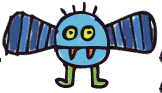
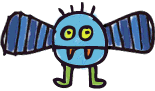
fixed images and squished final bug

diff --git a/target/site/checkstyle.html b/target/site/checkstyle.html
@@ -1,5 +1,5 @@
 <!DOCTYPE html PUBLIC "-//W3C//DTD XHTML 1.0 Transitional//EN" "http://www.w3.org/TR/xhtml1/DTD/xhtml1-transitional.dtd">
-<!-- Generated by Apache Maven Doxia Site Renderer 1.4 at 2025-12-03 -->
+<!-- Generated by Apache Maven Doxia Site Renderer 1.4 at 2025-12-04 -->
 <html xmlns="http://www.w3.org/1999/xhtml" xml:lang="en" lang="en">
   <head>
     <meta http-equiv="Content-Type" content="text/html; charset=UTF-8" />
@@ -10,7 +10,7 @@
       @import url("./css/site.css");
     </style>
     <link rel="stylesheet" href="./css/print.css" type="text/css" media="print" />
-    <meta name="Date-Revision-yyyymmdd" content="20251203" />
+    <meta name="Date-Revision-yyyymmdd" content="20251204" />
     <meta http-equiv="Content-Language" content="en" />
         
         </head>
@@ -24,7 +24,7 @@
             
                     
                 <div class="xleft">
-        <span id="publishDate">Last Published: 2025-12-03</span>
+        <span id="publishDate">Last Published: 2025-12-04</span>
                   &nbsp;| <span id="projectVersion">Version: 1.0</span>
                       </div>
             <div class="xright">        
@@ -47,7 +47,7 @@
     </div>
     <div id="bodyColumn">
       <div id="contentBox">
-        <div class="section"><h2>Checkstyle Results<a name="Checkstyle_Results"></a></h2><p>The following document contains the results of <a class="externalLink" href="http://checkstyle.sourceforge.net/">Checkstyle</a> 9.2.1 with https://www.seas.upenn.edu/~cis120/current/files/cis120-checkstyle-config.xml ruleset.&#160;<a href="checkstyle.rss"><img alt="rss feed" src="images/rss.png" /></a></p></div><div class="section"><h2>Summary<a name="Summary"></a></h2><table border="0" class="bodyTable"><tr class="a"><th>Files</th><th><img src="images/icon_info_sml.gif" alt="" />&#160;Info</th><th><img src="images/icon_warning_sml.gif" alt="" />&#160;Warnings</th><th><img src="images/icon_error_sml.gif" alt="" />&#160;Errors</th></tr><tr class="b"><td>3</td><td>0</td><td>1</td><td>0</td></tr></table></div><div class="section"><h2>Files<a name="Files"></a></h2><table border="0" class="bodyTable"><tr class="a"><th>File</th><th><img src="images/icon_info_sml.gif" alt="" />&#160;I</th><th><img src="images/icon_warning_sml.gif" alt="" />&#160;W</th><th><img src="images/icon_error_sml.gif" alt="" />&#160;E</th></tr><tr class="b"><td><a href="#org.cis1200.doodlejump.GameRegion.java">org/cis1200/doodlejump/GameRegion.java</a></td><td>0</td><td>1</td><td>0</td></tr></table></div><div class="section"><h2>Rules<a name="Rules"></a></h2><table border="0" class="bodyTable"><tr class="a"><th>Category</th><th>Rule</th><th>Violations</th><th>Severity</th></tr><tr class="b"><td>whitespace</td><td><a class="externalLink" href="http://checkstyle.sourceforge.net/config_whitespace.html#WhitespaceAround">WhitespaceAround</a><ul><li>allowEmptyConstructors: <tt>&quot;true&quot;</tt></li><li>allowEmptyMethods: <tt>&quot;true&quot;</tt></li><li>allowEmptyLoops: <tt>&quot;true&quot;</tt></li><li>allowEmptyTypes: <tt>&quot;true&quot;</tt></li></ul></td><td>1</td><td><img src="images/icon_warning_sml.gif" alt="" />&#160;Warning</td></tr></table></div><div class="section"><h2>Details<a name="Details"></a></h2><div class="section"><h3 id="org.cis1200.doodlejump.GameRegion.java">org/cis1200/doodlejump/GameRegion.java</h3><table border="0" class="bodyTable"><tr class="a"><th>Severity</th><th>Category</th><th>Rule</th><th>Message</th><th>Line</th></tr><tr class="b"><td><img src="images/icon_warning_sml.gif" alt="" />&#160;Warning</td><td>whitespace</td><td>WhitespaceAround</td><td>WhitespaceAround: '?' is not preceded with whitespace.</td><td>194</td></tr></table></div></div>
+        <div class="section"><h2>Checkstyle Results<a name="Checkstyle_Results"></a></h2><p>The following document contains the results of <a class="externalLink" href="http://checkstyle.sourceforge.net/">Checkstyle</a> 9.2.1 with https://www.seas.upenn.edu/~cis120/current/files/cis120-checkstyle-config.xml ruleset.&#160;<a href="checkstyle.rss"><img alt="rss feed" src="images/rss.png" /></a></p></div><div class="section"><h2>Summary<a name="Summary"></a></h2><table border="0" class="bodyTable"><tr class="a"><th>Files</th><th><img src="images/icon_info_sml.gif" alt="" />&#160;Info</th><th><img src="images/icon_warning_sml.gif" alt="" />&#160;Warnings</th><th><img src="images/icon_error_sml.gif" alt="" />&#160;Errors</th></tr><tr class="b"><td>1</td><td>0</td><td>0</td><td>0</td></tr></table></div><div class="section"><h2>Files<a name="Files"></a></h2><table border="0" class="bodyTable"><tr class="a"><th>File</th><th><img src="images/icon_info_sml.gif" alt="" />&#160;I</th><th><img src="images/icon_warning_sml.gif" alt="" />&#160;W</th><th><img src="images/icon_error_sml.gif" alt="" />&#160;E</th></tr></table></div><div class="section"><h2>Rules<a name="Rules"></a></h2><table border="0" class="bodyTable"><tr class="b"><th>Category</th><th>Rule</th><th>Violations</th><th>Severity</th></tr></table></div><div class="section"><h2>Details<a name="Details"></a></h2></div>
       </div>
     </div>
     <div class="clear">

diff --git a/src/main/java/org/cis1200/doodlejump/RunDoodleJump.java b/src/main/java/org/cis1200/doodlejump/RunDoodleJump.java
@@ -7,17 +7,17 @@ public class RunDoodleJump implements Runnable {
 
     public static final String TEXT = """
             This Game is called Doodle Jump!
-            
+
             The main objective of the game is to get as high as you can while avoiding the monsters
-            and not falling. Don't worry about jumping though, because your character is always jumping!
+            and not falling. Don't worry about jumping though, because your character auto jumps!
             Use A and D to move left or right, respectively, and use SPACE to shoot a shuriken up
             that can kill monsters! The blue monster dies with one shuriken, and the others take 2.
             Watch out for the flying saucers, as they will chase you! The bouncy platforms will
-            help you, but some platforms will move or even disappear. Unlike Doodle Jump, you are not
+            help you, but some platforms will move or disappear. Unlike Doodle Jump, you aren't
             able to jump on the monsters to kill them; they will kill you. This game does have a
             wrap-around field! If you move beyond the right side of the game area, you'll come
             out the left (and vice versa)!
-            
+
             Good luck!
             """;
 

diff --git a/src/test/java/org/cis1200/doodlejump/DoodleTest.java b/src/test/java/org/cis1200/doodlejump/DoodleTest.java
@@ -4,14 +4,12 @@ import org.junit.jupiter.api.*;
 
 import javax.swing.*;
 import java.io.BufferedReader;
-import java.io.FileNotFoundException;
 import java.io.FileReader;
 import java.io.IOException;
 import java.util.Arrays;
 import java.util.LinkedList;
 
 import static org.junit.jupiter.api.Assertions.*;
-
 
 public class DoodleTest {
 
@@ -80,7 +78,8 @@ public class DoodleTest {
             bw.close();
         } catch (IOException e) {
             fail(e.getMessage());
-        } court.reset();
+        }
+        court.reset();
         try {
             bw = new BufferedReader(new FileReader(saveFile));
             assertEquals("empty", bw.readLine());
@@ -284,7 +283,9 @@ public class DoodleTest {
 
         platform.interact(player);
 
-        assertEquals("1", String.valueOf((platform.toString().charAt(platform.toString().length() - 1))));
+        assertEquals(
+                "1", String.valueOf((platform.toString().charAt(platform.toString().length() - 1)))
+        );
     }
 
     @Test

diff --git a/src/main/java/org/cis1200/doodlejump/GameRegion.java b/src/main/java/org/cis1200/doodlejump/GameRegion.java
@@ -245,7 +245,7 @@ public class GameRegion extends JPanel {
                     break;
             }
         } else {
-            switch (random.next(5  * multiplier)) {
+            switch (random.next(5 * multiplier)) {
                 case 1:
                     toAdd = new RegularMonster(
                             random.next(COURT_WIDTH - Monster.MONSTER_WIDTH),
@@ -567,7 +567,7 @@ public class GameRegion extends JPanel {
             keepGoing = true;
         }
 
-        if (monsters.peekFirst() != null && monsters.peekLast().getPy() <= 0) {
+        if (monsters.peekFirst() != null && monsters.peekFirst().getPy() <= 0) {
             monsters.removeFirst();
             keepGoing = true;
         }
